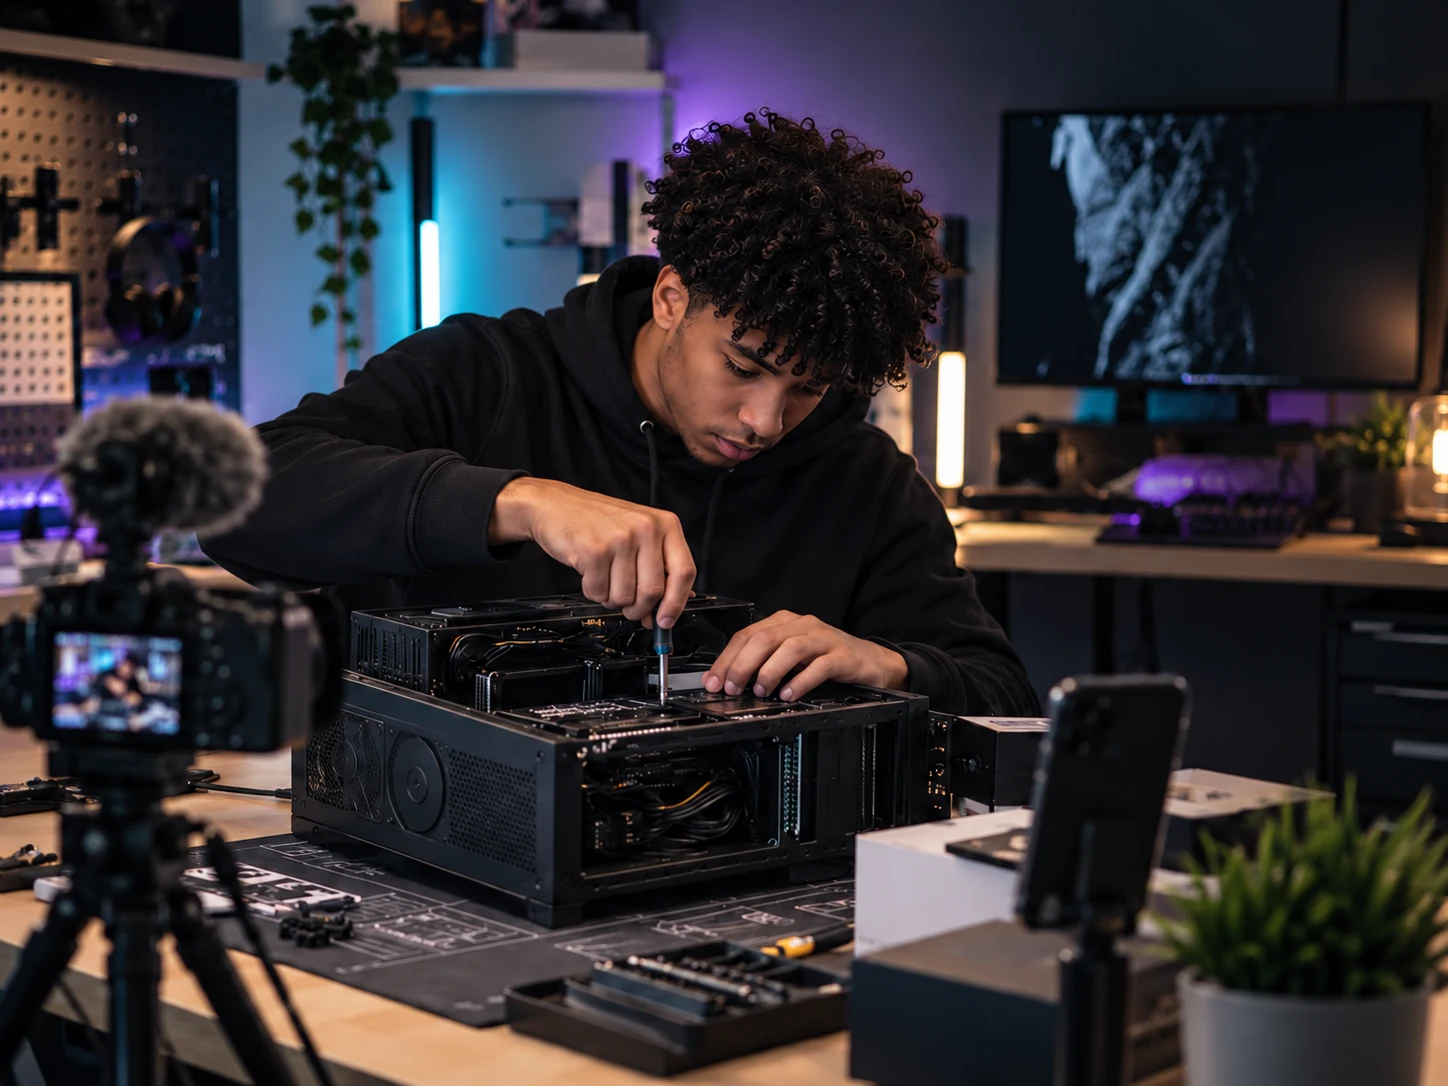
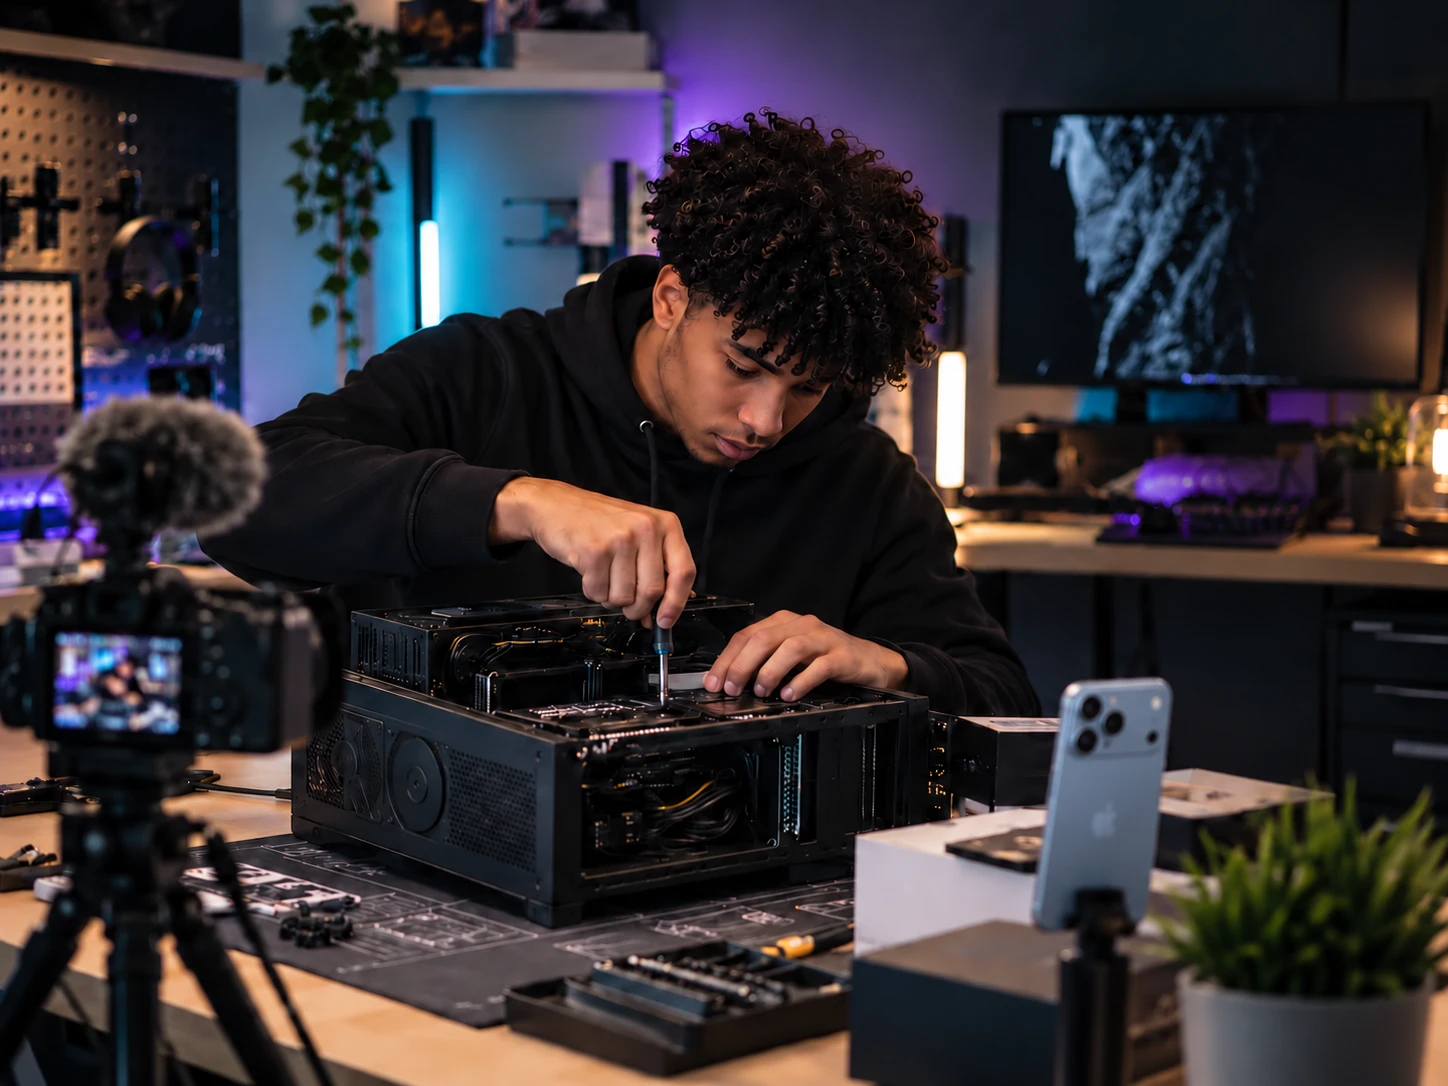
style: update creator artwork and illustration caption

diff --git a/src/sections/creator/Creator.tsx b/src/sections/creator/Creator.tsx
@@ -47,7 +47,7 @@ import styles from './Creator.module.css'
  *
  * SECTION MEDIA
  * `src/assets/creator/creator-build-session.webp` is an illustrative image
- * generated from the user's approved Creator mockup (1448 × 1086, 142 560
+ * generated from the user's approved Creator mockup (1448 × 1086, 156 350
  * bytes). It depicts a fictional creator and is not documentary evidence of
  * Carter or a specific build. It is used as atmosphere only, so alt="" avoids
  * implying facts the accompanying copy does not establish.
@@ -159,7 +159,7 @@ function Creator() {
           stacks text-then-image (per ARCHITECTURE.md's Section 3 responsive
           spec) without needing a separate mobile-only DOM order; desktop lifts
           it out of flow with position: absolute (see Creator.module.css). */}
-      <div className={styles.stage} aria-hidden="true" data-reveal-stage>
+      <figure className={styles.stage} data-reveal-stage>
         <div className={styles.stageSurface}>
           {/* This section is one scroll below the Hero, so load its compact
               WebP early and reserve its 4:3 intrinsic dimensions. */}
@@ -172,7 +172,10 @@ function Creator() {
             decoding="async"
           />
         </div>
-      </div>
+        <figcaption className={styles.mediaDisclosure}>
+          {t.creator.imageDisclosure}
+        </figcaption>
+      </figure>
 
       {/* Creator → Featured transition: mirrors the Hero → Creator seam
           above, picked up by Featured's matching top seam (see

diff --git a/src/sections/creator/Creator.module.css b/src/sections/creator/Creator.module.css
@@ -104,6 +104,28 @@
   object-position: left center;
 }
 
+.mediaDisclosure {
+  position: absolute;
+  inset-inline-start: 0.75rem;
+  inset-block-end: 0.75rem;
+  z-index: 1;
+  padding: 0.375rem 0.5rem;
+  border: 1px solid color-mix(
+    in srgb,
+    var(--color-text-primary) 18%,
+    transparent
+  );
+  border-radius: 999px;
+  background: color-mix(
+    in srgb,
+    var(--color-bg-base) 88%,
+    transparent
+  );
+  color: var(--color-text-muted);
+  font-size: 0.625rem;
+  line-height: 1.2;
+}
+
 /* ===== Canvas ===== */
 
 .canvas {
